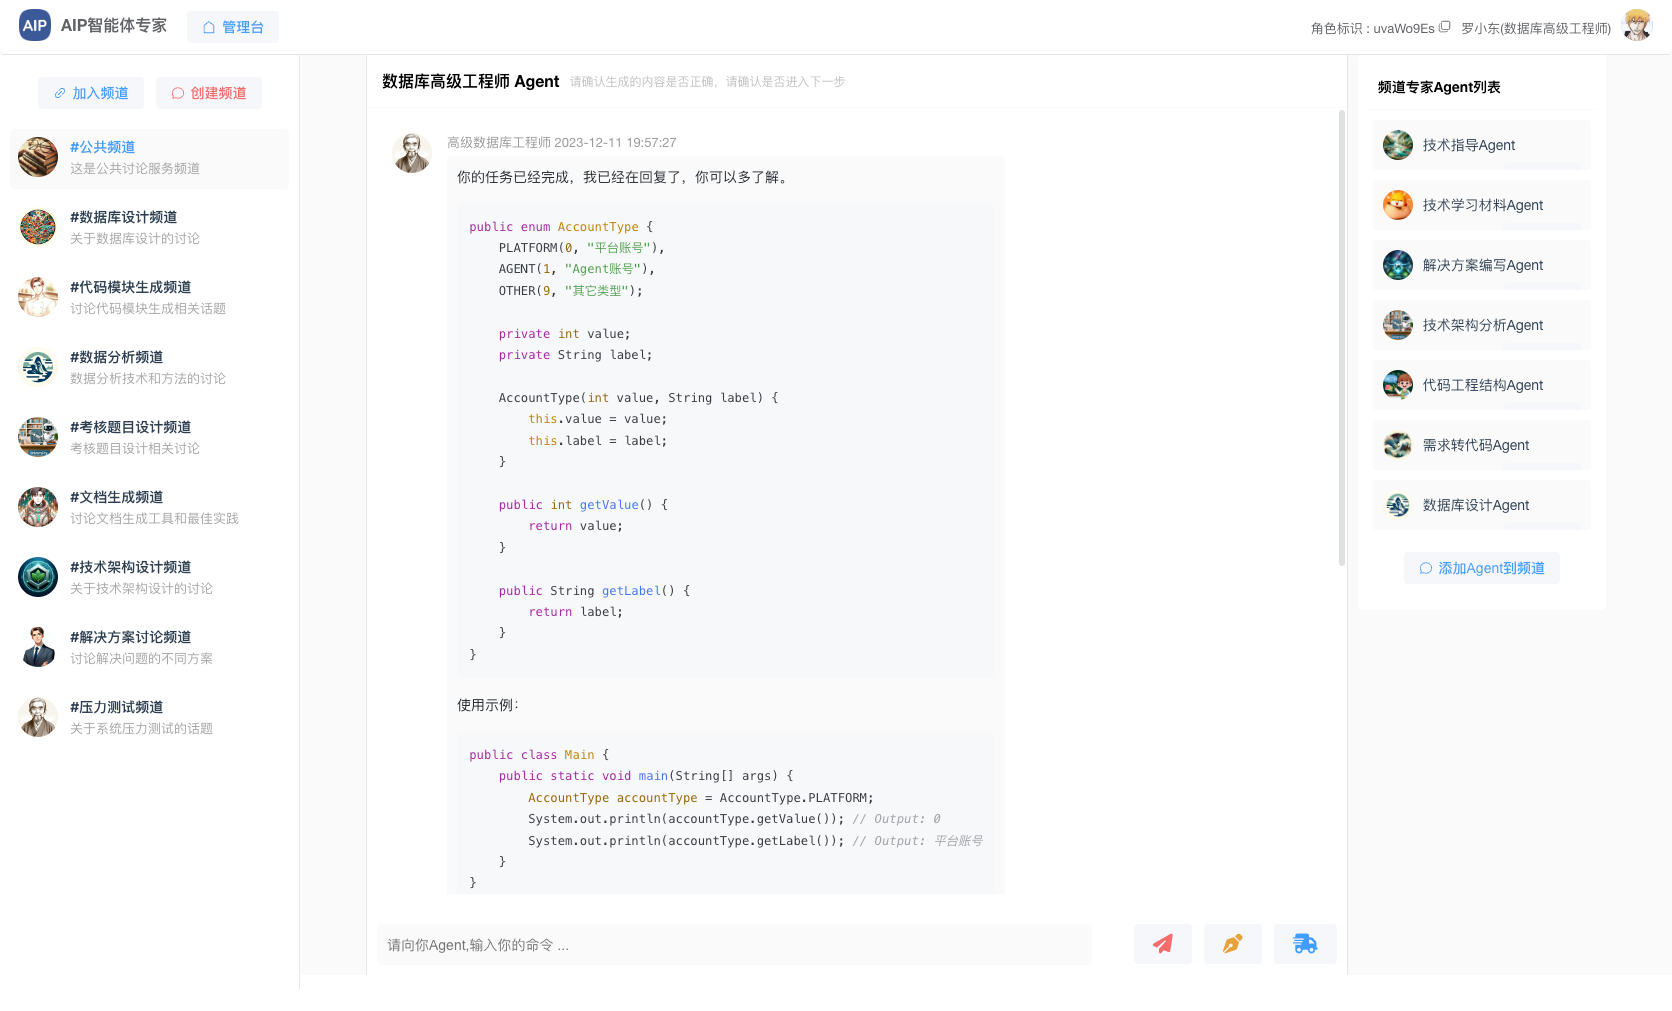
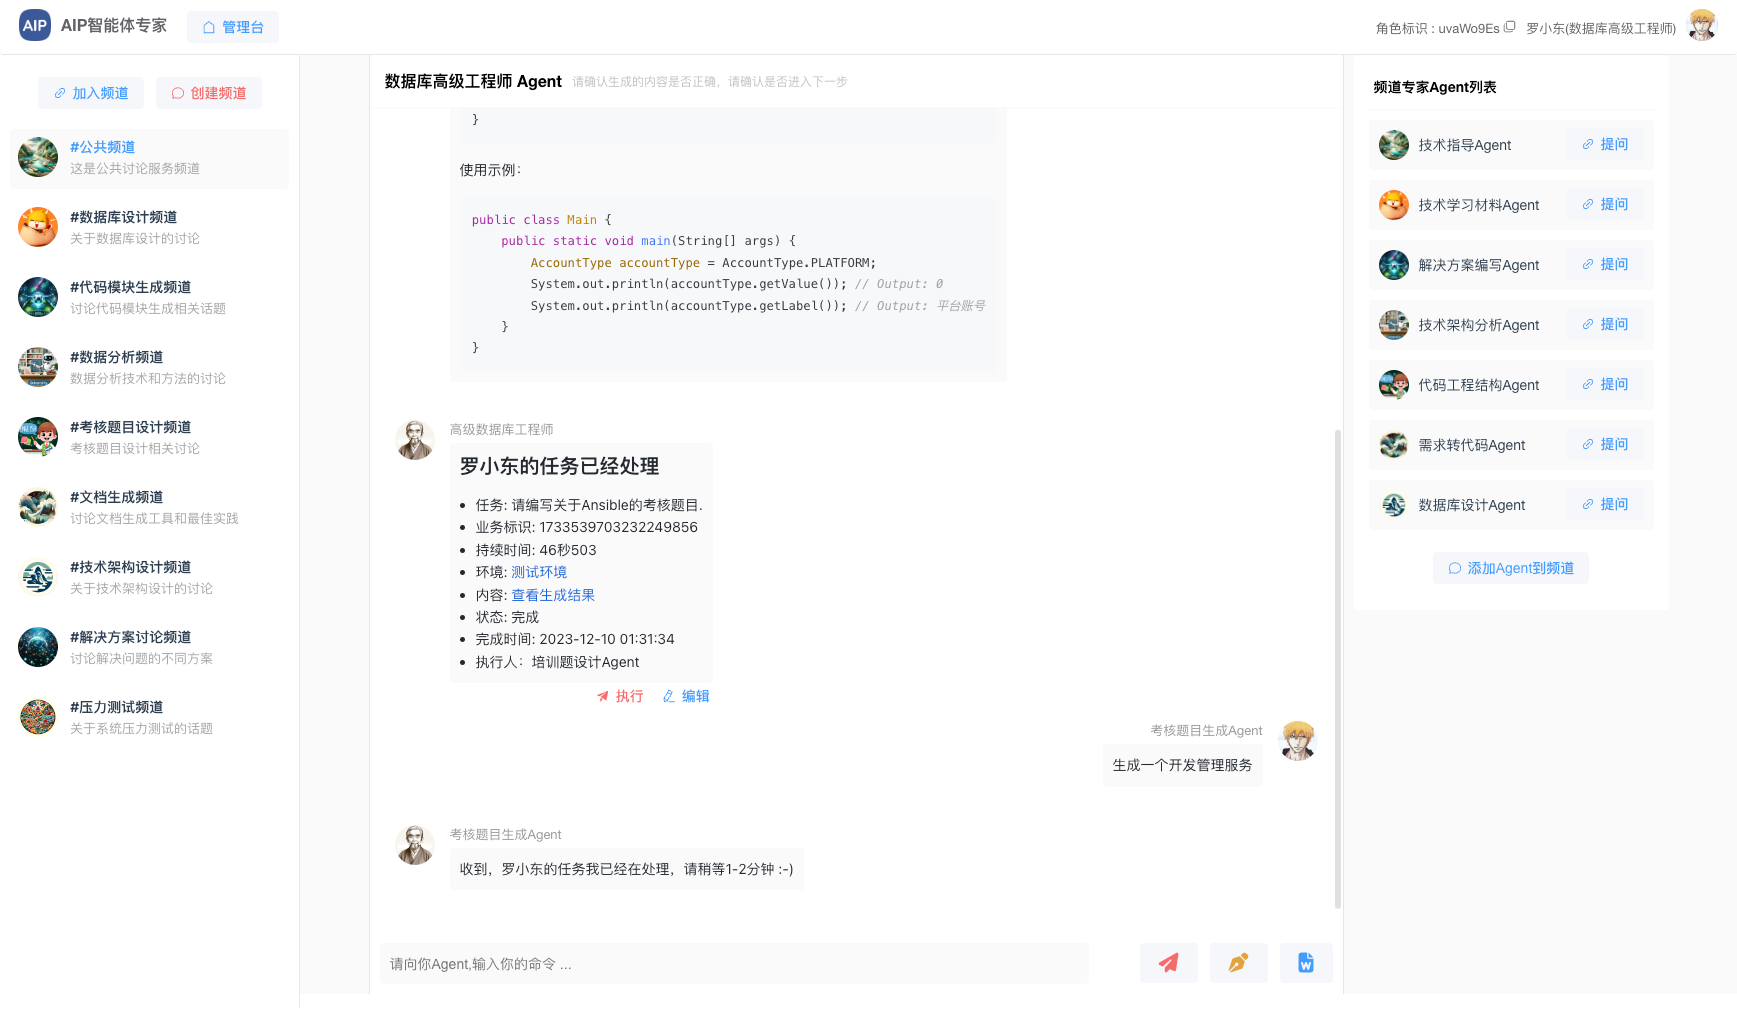
feat:优化IM界面

diff --git a/README.md b/README.md
@@ -7,7 +7,14 @@ IM消息服务是一种用于实时通信和消息传递的服务
 
 ## 产品截图
 
+主界面: 
 <img src="/images/product_01.png" />
+
+频道界面:
+<img src="/images/product_02.png" />
+
+频道界面:
+<img src="/images/product_03.png" />
 
 ## 主要功能
 
